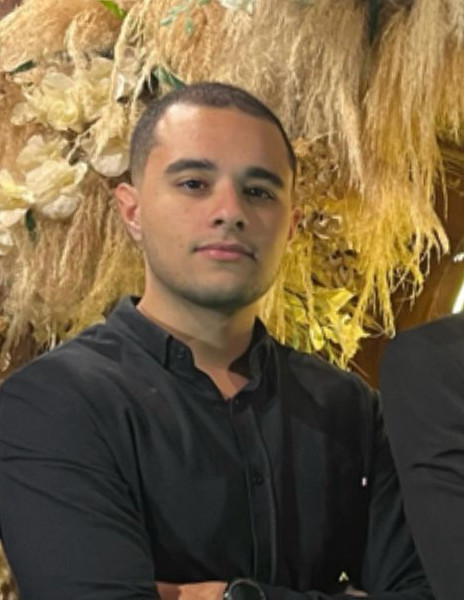
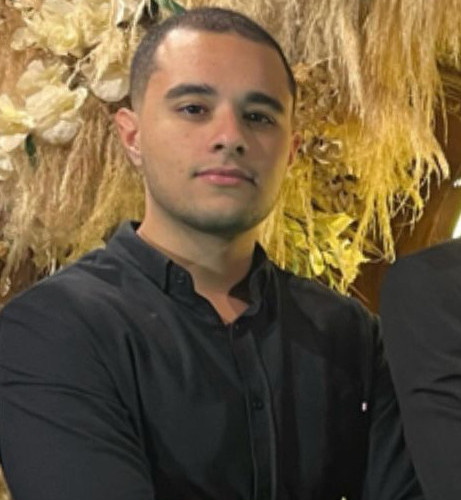
ajuste responsividade

diff --git a/style/style.css b/style/style.css
@@ -46,15 +46,13 @@ body{
 }
 
 main{
-    max-width: 100%;
-    min-width: 200px;
     color: white;
     margin-top: 60px;
     margin-bottom: 110px;
     padding-left: 3%;
     display: flex;
     justify-content: space;
-    gap: 32%;
+    gap: 20%;
 }
 
 .apresentacao__conteudo{
@@ -107,11 +105,11 @@ strong{
 }
 
 .foto-minha {
-    margin-top: 90px;
+    margin-top: 2%;
     border-radius: 50%;
-    width: 20%;
+    width: 30%;
+    height: 30%;
     border: 5px solid var(--color2);
-    ;
 }
 
 .titulo-terciario{
@@ -137,7 +135,7 @@ strong{
     display: flex;
     justify-content: center;
     gap: 16px;
-    width: 300px;
+    width: 50%;
     border: 2px solid var(--color2);
     text-align: center;
     border-radius: 8px;
@@ -160,4 +158,18 @@ footer{
     color: white;
     font-size: 1.5rem;
     text-align: center;
+}
+
+@media(max-width: 1200px) {
+    .apresentacao{
+        flex-direction: column-reverse;
+    }
+    .foto-minha{
+        display: flex;
+        margin: auto;
+        width: 60%;
+        margin-bottom: 5% ;
+    }
+
+    
 }
